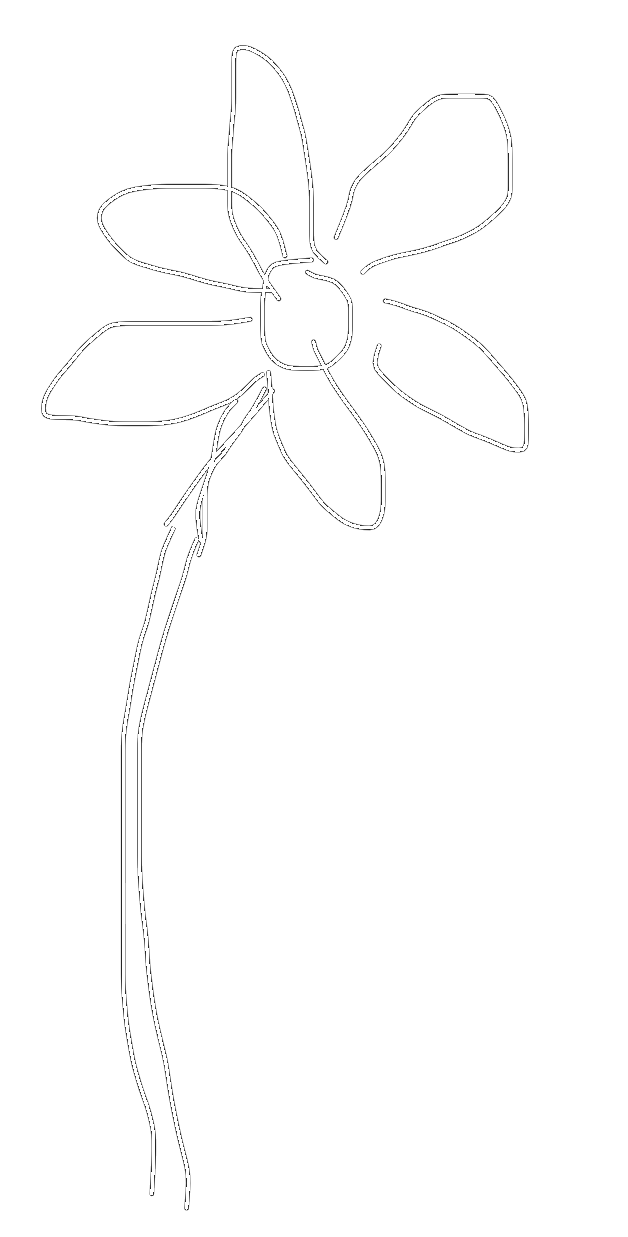
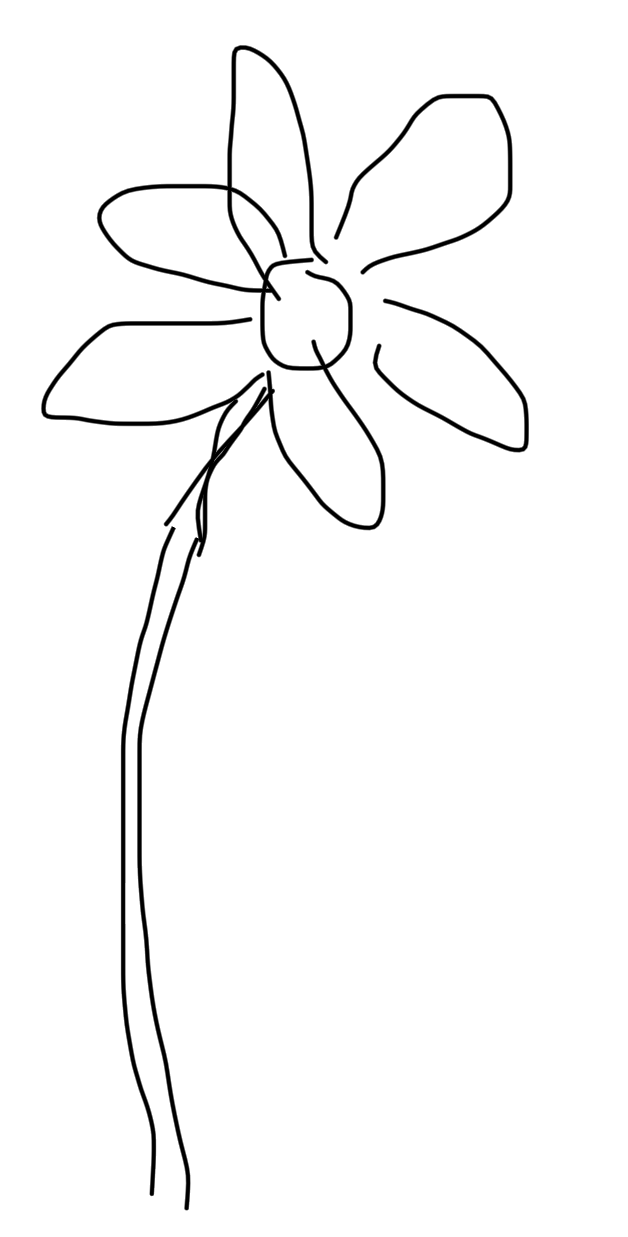
Updates

diff --git a/assets/index-DHo-uSob.css b/assets/index-DHo-uSob.css
@@ -1,0 +1,1 @@
+@import"https://fonts.googleapis.com/css2?family=Caveat&display=swap";body,html,.App{margin:0;padding:0;overflow-x:hidden;font-family:sans-serif;min-height:100vh}.sky{min-height:30vh;background:linear-gradient(to bottom,#afe9fc,#c0f7ff);position:relative;overflow:hidden;z-index:0}.sky-text{text-align:center;font-size:2em;font-family:Caveat,cursive;color:#fff;animation:float 3s ease-in-out infinite;text-shadow:2px 2px 4px #000;padding-top:10px;z-index:2;position:relative}@keyframes float{0%,to{transform:translateY(0)}50%{transform:translateY(-10px)}}.cloud{position:absolute;width:100px;top:20px;animation:drift 40s linear infinite;opacity:.9;z-index:1}.cloud1{left:-100px;animation-delay:0s}.cloud2{left:-200px;animation-delay:10s}.cloud3{left:-300px;animation-delay:20s}@keyframes drift{0%{transform:translate(0)}to{transform:translate(2200px)}}.sun{position:absolute;top:10px;right:20px;width:40px;height:40px;background-image:url(/flower-garden/sun.png);background-size:cover;z-index:3}.moon{position:absolute;top:10px;right:20px;width:40px;height:40px;background-image:url(/flower-garden/moon.png);background-size:cover;z-index:3}.stars{position:absolute;top:0;left:0;width:100%;height:100%;background:radial-gradient(#ffffff 1px,transparent 1px);background-size:20px 20px;opacity:.4;animation:twinkle 4s infinite ease-in-out;z-index:1;pointer-events:none}@keyframes twinkle{0%,to{opacity:.3}50%{opacity:.7}}.hill-divider{position:absolute;bottom:0;width:100%;height:80px;z-index:1;line-height:0}.hill-divider svg{display:block}.field{position:relative;width:100%;min-height:300vh;background:linear-gradient(to top,#03ac13,#7cfc00);overflow:hidden;padding:4vh 0;z-index:1}.flower{position:absolute;transition:transform .3s ease;cursor:pointer;max-width:120px;height:auto}.popup-overlay{position:fixed;top:0;left:0;width:100%;height:100%;background:#0006;display:flex;justify-content:center;align-items:center;z-index:20}.popup{background-color:#f2e0c9;border:4px solid #8b5e3c;border-radius:12px;padding:20px;max-width:320px;width:90%;text-align:center;box-shadow:4px 4px 10px #0006;position:relative}.popup button{position:absolute;top:6px;right:10px;background:transparent;border:none;font-size:1.2rem;cursor:pointer}.gate{position:fixed;width:100%;height:100vh;display:flex;z-index:999;top:0;left:0;background:transparent;pointer-events:none}.left-door,.right-door{width:50%;height:100%;background-color:#b0701c;border:4px solid #5c2f0c;transition:transform 2s ease;position:absolute;top:0}.left-door{left:0;transform:translate(0)}.right-door{right:0;transform:translate(0)}.gate.open .left-door{transform:translate(-100%)}.gate.open .right-door{transform:translate(100%)}

diff --git a/index.html b/index.html
@@ -5,8 +5,8 @@
     <meta charset="UTF-8" />
     <meta name="viewport" content="width=device-width, initial-scale=1.0" />
     <title>Flower Garden</title>
-    <script type="module" crossorigin src="/flower-garden/assets/index-nb988qwg.js"></script>
-    <link rel="stylesheet" crossorigin href="/flower-garden/assets/index-C_4AosfB.css">
+    <script type="module" crossorigin src="/flower-garden/assets/index-Dt3_GNdG.js"></script>
+    <link rel="stylesheet" crossorigin href="/flower-garden/assets/index-DHo-uSob.css">
   </head>
   <body>
     <div id="root"></div>
